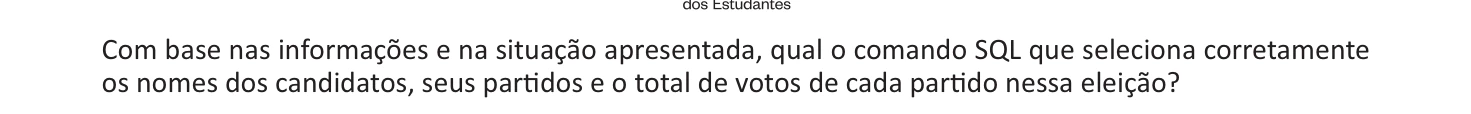
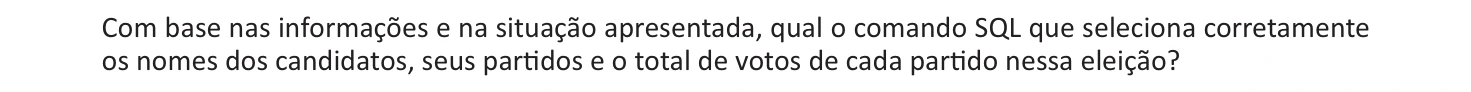
fix(enade): restore official question continuation crops

diff --git a/src/lib/enade/enade.test.ts b/src/lib/enade/enade.test.ts
@@ -6,11 +6,15 @@ import { describe, it, expect } from 'vitest';
 import data from './exams.json';
 import { gradeEnade, type EnadeExam, type EnadeQuestionContent } from './types';
 
-function archivedQuestion(year: number, number: number) {
+function archivedQuestion(
+  year: number,
+  number: number,
+  kind: 'objective' | 'discursive' = 'objective'
+) {
   const items = JSON.parse(
     readFileSync(resolve(`public/enade/${year}/questions.json`), 'utf8')
   ) as EnadeQuestionContent[];
-  return items.find((item) => item.id === `${year}-objective-${number}`)!;
+  return items.find((item) => item.id === `${year}-${kind}-${number}`)!;
 }
 
 describe('ADS Enade official archive', () => {
@@ -172,6 +176,38 @@ describe('ADS Enade official archive', () => {
       ]);
       expect(detail.width).toBeGreaterThan(preview.width * 1.95);
       expect(detail.height).toBeGreaterThan(preview.height * 1.9);
+    }
+  });
+
+  it('keeps the complete 2021 class diagram prompt and its original page', async () => {
+    const question = archivedQuestion(2021, 15);
+    expect(question.statement).toMatch(/^Considerando o cenário descrito/);
+    expect(question.formattedStatement?.at(-1)).toMatchObject({
+      kind: 'paragraph',
+      text: expect.stringMatching(/^Considerando o cenário descrito.*equipe de desenvolvimento\.$/),
+    });
+    expect(question.images.map(({ page }) => page)).toEqual([22, 23]);
+    const { data: pixels, info } = await sharp(resolve(`public${question.images[1].src}`))
+      .greyscale()
+      .raw()
+      .toBuffer({ resolveWithObject: true });
+    const topRows = pixels.subarray(0, info.width * info.channels * 8);
+    expect(topRows.every((pixel) => pixel >= 220)).toBe(true);
+  });
+
+  it('omits header-only and scratch-only pages while retaining actual continuations', () => {
+    for (const [year, number, expectedPages] of [
+      [2008, 10, [8]],
+      [2014, 1, [2]],
+      [2017, 1, [2, 3]],
+      [2017, 5, [16, 17]],
+      [2021, 1, [2]],
+    ] as const) {
+      const question = archivedQuestion(year, number, 'discursive');
+      expect(
+        question.images.map(({ page }) => page),
+        question.id
+      ).toEqual(expectedPages);
     }
   });
 

diff --git a/src/app/trails/enade/EnadeSimulation.test.tsx b/src/app/trails/enade/EnadeSimulation.test.tsx
@@ -93,9 +93,7 @@ describe('Enade course simulations', () => {
   it('starts a real edition, records objective and discursive answers, finishes and reviews results', async () => {
     render(simulation());
     expect(await screen.findByRole('heading', { name: 'Simulado 2021' })).toBeInTheDocument();
-    expect(
-      await screen.findByAltText(/Discursiva 1 · parte 1 da prova Enade ADS 2021/)
-    ).toBeInTheDocument();
+    expect(await screen.findByAltText(/Discursiva 1 da prova Enade ADS 2021/)).toBeInTheDocument();
     fireEvent.change(screen.getByLabelText('Escreva sua resposta'), {
       target: { value: 'Minha resposta discursiva.' },
     });

diff --git a/scripts/import-enade-questions.py b/scripts/import-enade-questions.py
@@ -25,6 +25,10 @@ STEM_CLIPS = {
     '2014-objective-29': [(22, [44, 124, 313, 747]), (22, [318, 103, 584, 141])],
 }
 DIAGRAM_STEM_BOTTOM = {'2017-objective-20': 132, '2021-objective-15': 98}
+# Top of the usable body for enunciados that continue on a later page.
+# Values use PDF points and one-based page numbers.
+CONTINUATION_TOP = {2014: 96, 2017: 82}
+CONTINUATION_PAGE_TOP = {2008: {9: 94}, 2021: {3: 80, 23: 60}}
 INSTRUCTION_START = re.compile(
     r'^(?:Assinale|Com base|Considerando|É correto|A respeito|Acerca|Das (?:imagens|obras)|No poema|'
     r'Usando|Utilizando a engenharia reversa|A partir|De acordo|Nesse contexto|Nessa situação|'
@@ -130,7 +134,11 @@ def clip_text(doc, clip):
 
 
 def extract(exam):
-    doc = source_document(exam['year'])
+    year = exam['year']
+    doc = source_document(year)
+    default_top = 65 if year == 2011 else 74
+    continuation_top = CONTINUATION_TOP.get(year, default_top)
+    continuation_pages = CONTINUATION_PAGE_TOP.get(year, {})
     regions, headers = [], []
     last_columns = 1
     for index, page in enumerate(doc):
@@ -163,7 +171,7 @@ def extract(exam):
             x0 = 20 if column == 0 else middle + 3
             x1 = middle - 3 if columns == 2 and column == 0 else page.rect.width - 20
             region_index = len(regions)
-            regions.append({'page': index, 'rect': [x0, 65 if exam['year'] == 2011 else 74, x1, bottom]})
+            regions.append({'page': index, 'rect': [x0, default_top, x1, bottom]})
             for question, line in found:
                 col = int(line['bbox'][0] > middle) if columns == 2 else 0
                 if col == column:
@@ -208,6 +216,8 @@ def extract(exam):
         stem = []
         for ci, clip in enumerate(clips):
             rect = list(clip['rect'])
+            if clip['page'] > clips[0]['page']:
+                rect[1] = continuation_pages.get(clip['page'] + 1, continuation_top)
             if markers and ci == markers[0]['clip']:
                 rect[3] = markers[0]['box'][1] - 2
             if markers and ci > markers[0]['clip']:
